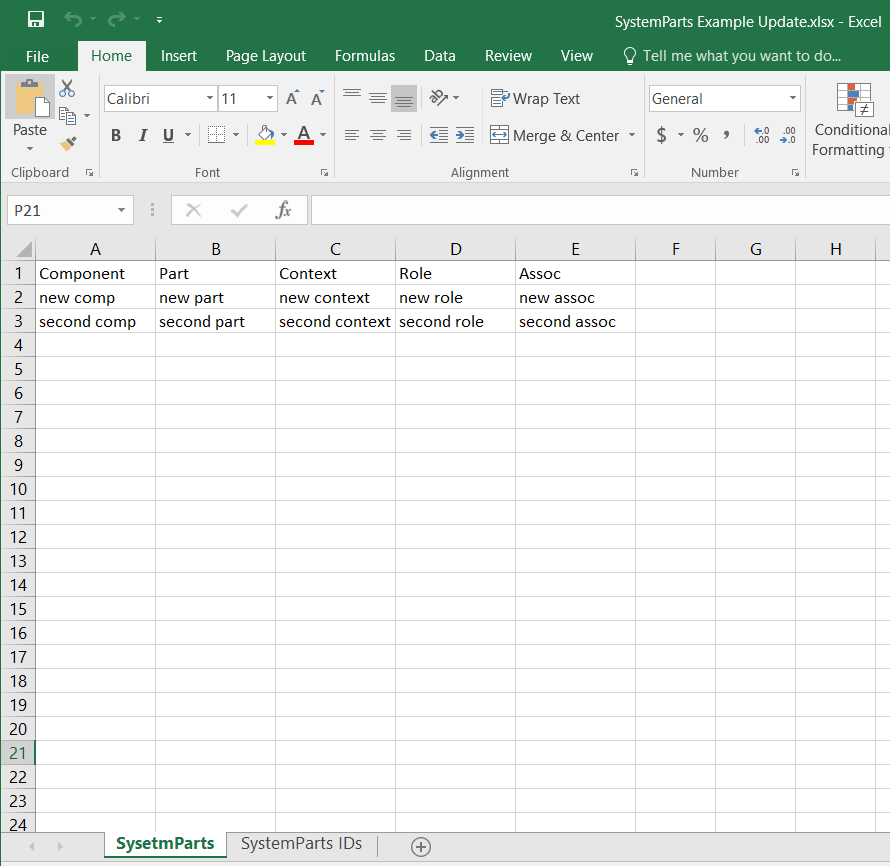
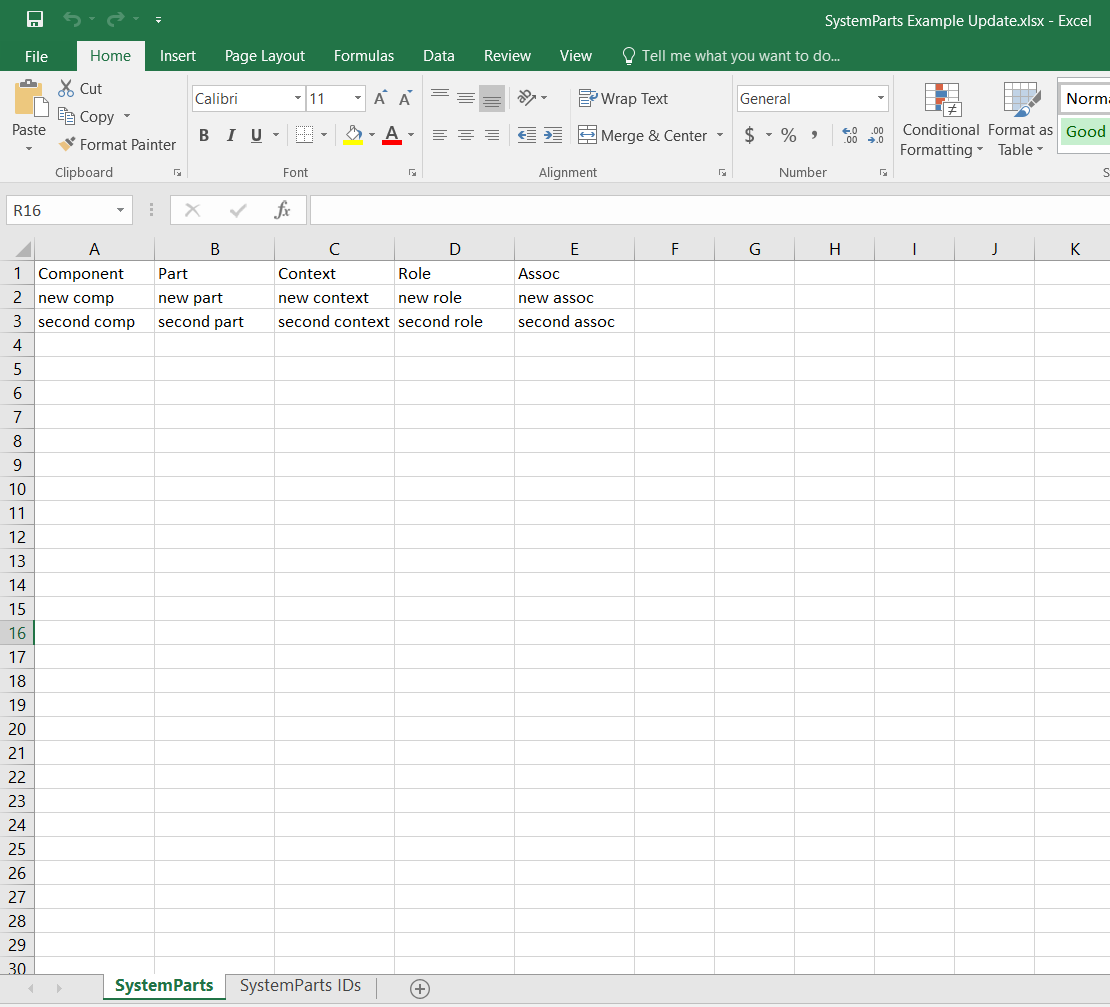
rough draft of quick start detailing create compare and common applications.

diff --git a/ingrid-quick-start/QUICKSTART.md b/ingrid-quick-start/QUICKSTART.md
@@ -144,10 +144,37 @@ The "graph_diff_changes_ <date-time>.JSON" updates the model to reflect the rena
 
 ### Pattern Layering
 
-Complex models in MBSE rely on multiple SysML metamodels and patterns; pattern layering with RMT allows modelers to automatically build complex models through a series of `--compare` calls. As an example, the quick start will now layer a SystemParts pattern onto the model developed in the previous sections.
+Complex models in MBSE rely on multiple SysML metamodels and patterns; pattern layering with RMT allows modelers to automatically build complex models through a series of `--compare` calls. As an example, the quick start will now layer a [SystemParts](../ingrid/src/model_processing/patterns/SystemParts.json) pattern onto the model developed in the previous sections. Create a new Excel file, saving it to the same directory as the others, and name it `SystemParts Example Baseline.xlsx`. Create a sheet named `SystemParts` and `SystemParts IDs` populated with IDs from the baseline import and the IDs produced by the `--compare` command.
+
+![](images/sys-parts-baseline-data.png)
+
+![](images/sys-parts-baseline-ids.png)
+
+Duplicate and rename `SystemParts Example Baseline.xlsx` to `SystemParts Example Update.xlsx`. Open `SystemParts Example Update.xlsx`, switch to the sheet labeled `SysetmParts` and paste the data shown in the table here.
 
 
 | Component | Part | Context | Role | Assoc |
 |-|-|-|-|-|
 | new comp | new part | new context | new role | new assoc |
 | second comp | second part | second context | second role | second assoc |
+
+![](images/sys-parts-update-data.png)
+
+
+On the command line, execute
+```bash
+anaconda-project run cli --compare --original "../../rapid-modeling-tools/ingrid-quick-start/SystemParts Example Baseline.xlsx" --update "../../rapid-modeling-tools/ingrid-quick-start/SystemParts Example Update.xlsx"
+```
+or,
+
+```bash
+model-processing --compare --original "../../rapid-modeling-tools/ingrid-quick-start/SystemParts Example Baseline.xlsx" --update "../../rapid-modeling-tools/ingrid-quick-start/SystemParts Example Update.xlsx"
+```
+
+The comparison, between the empty baseline and populated update file, produces add commands for the player piano to create new elements to the model adhering to the new pattern.
+
+![](images/sys-parts-diff.png)
+
+Import the changes to MagicDraw using the Player Piano macro to realize the model updates.
+
+![](images/layered-model.png)
